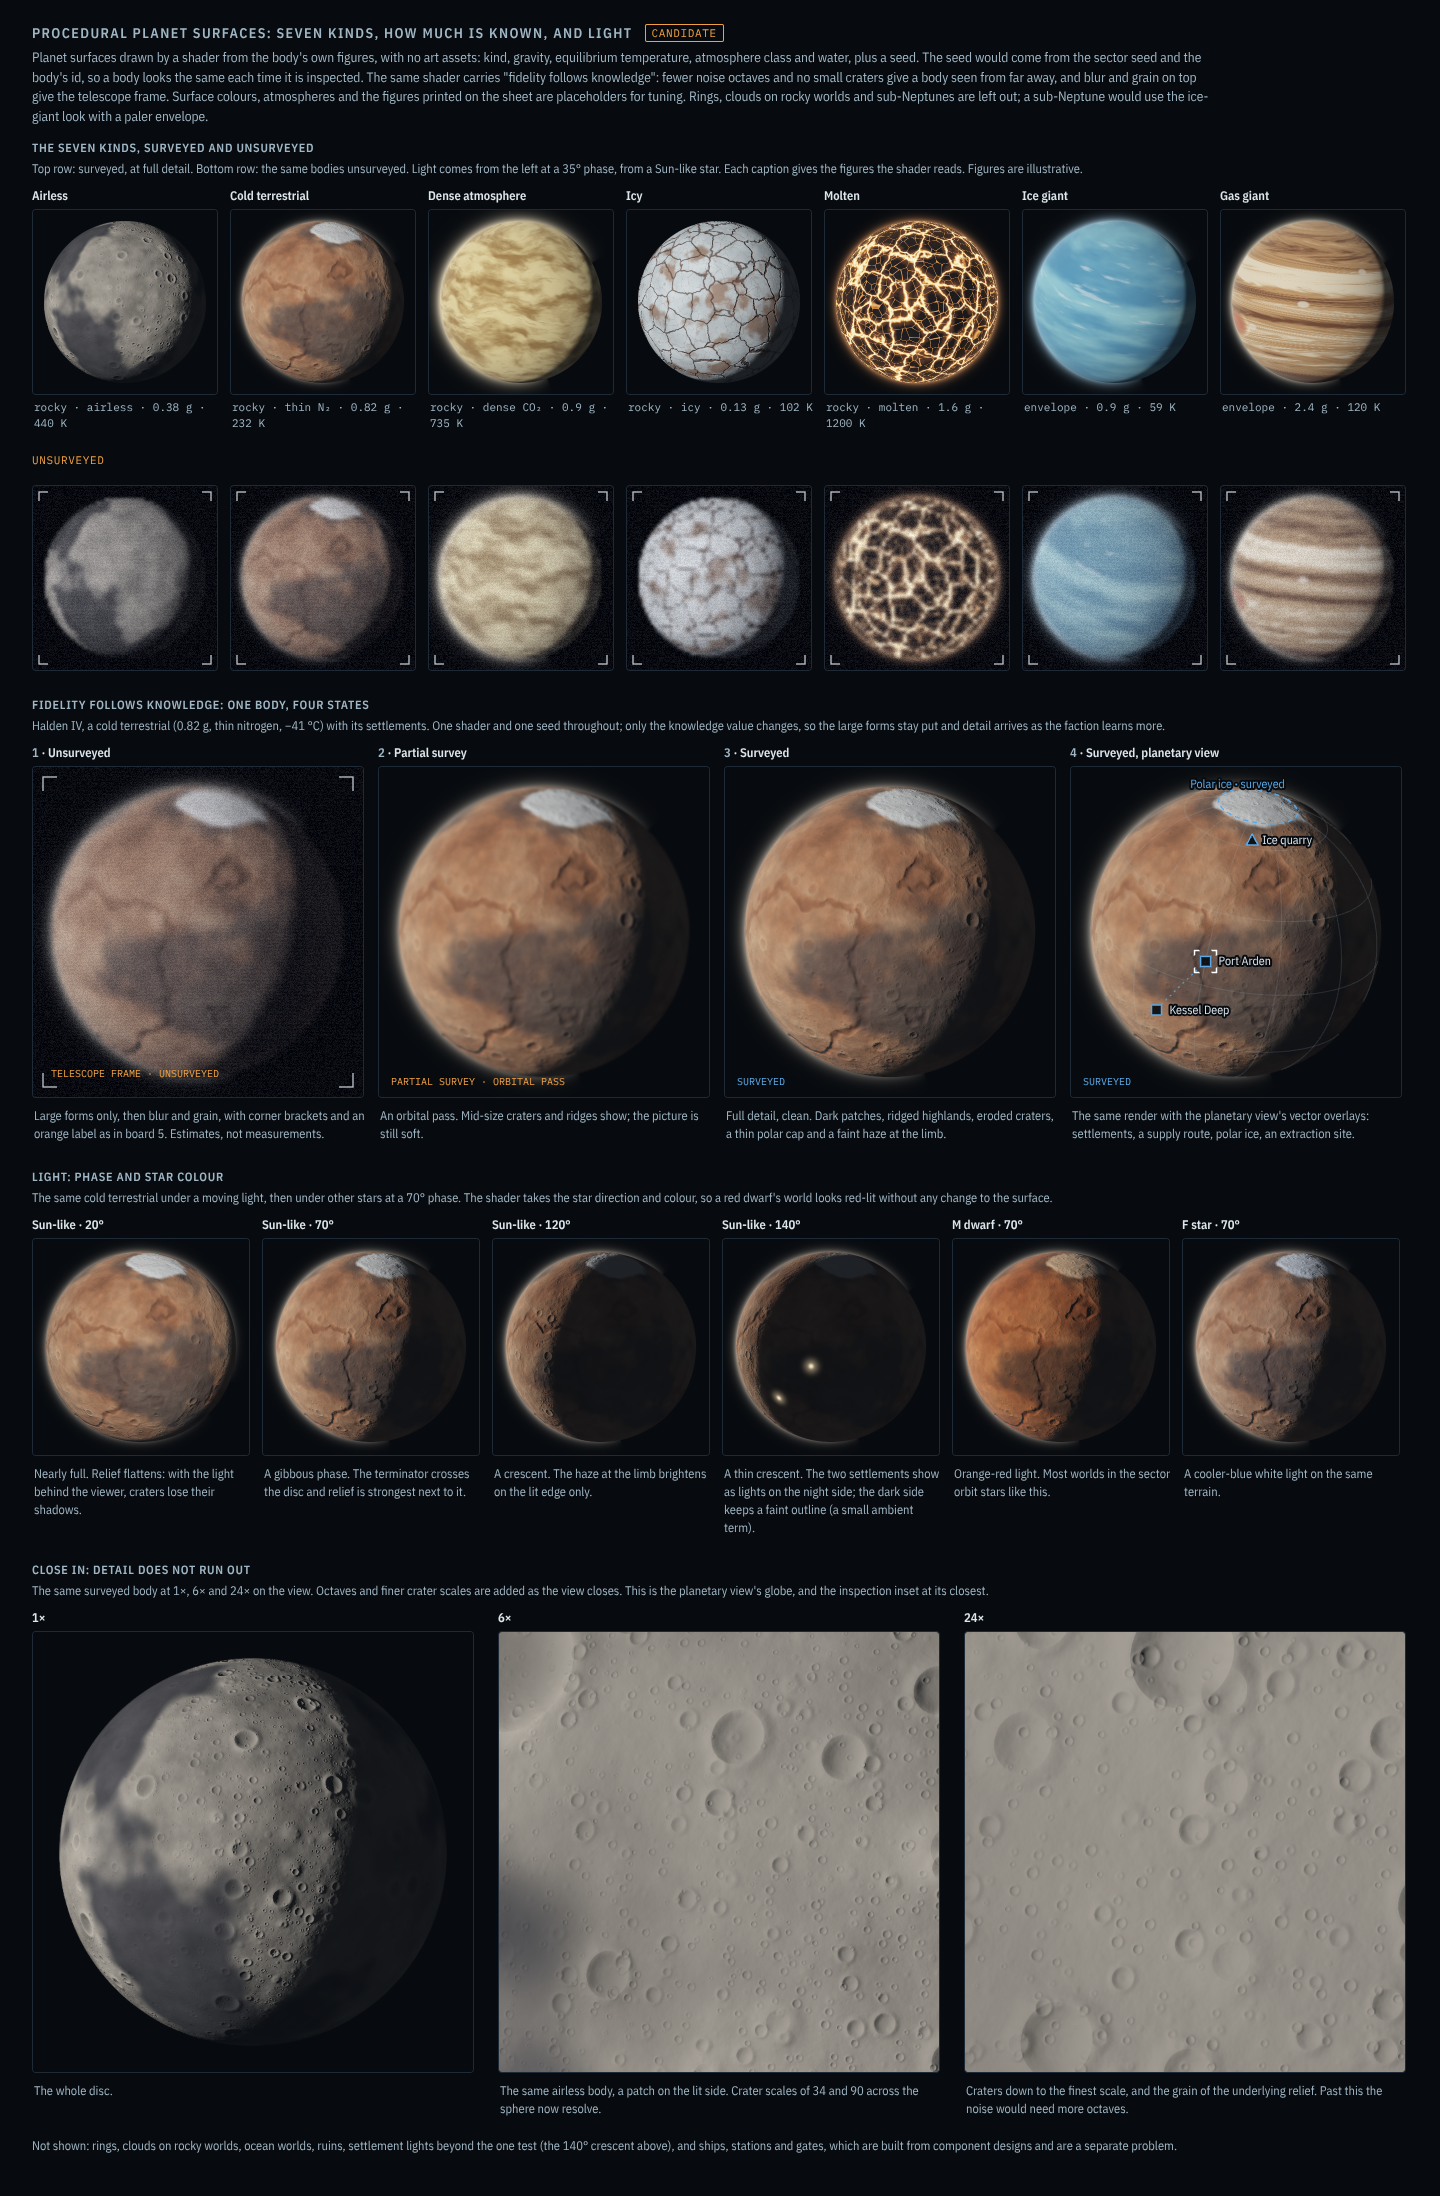
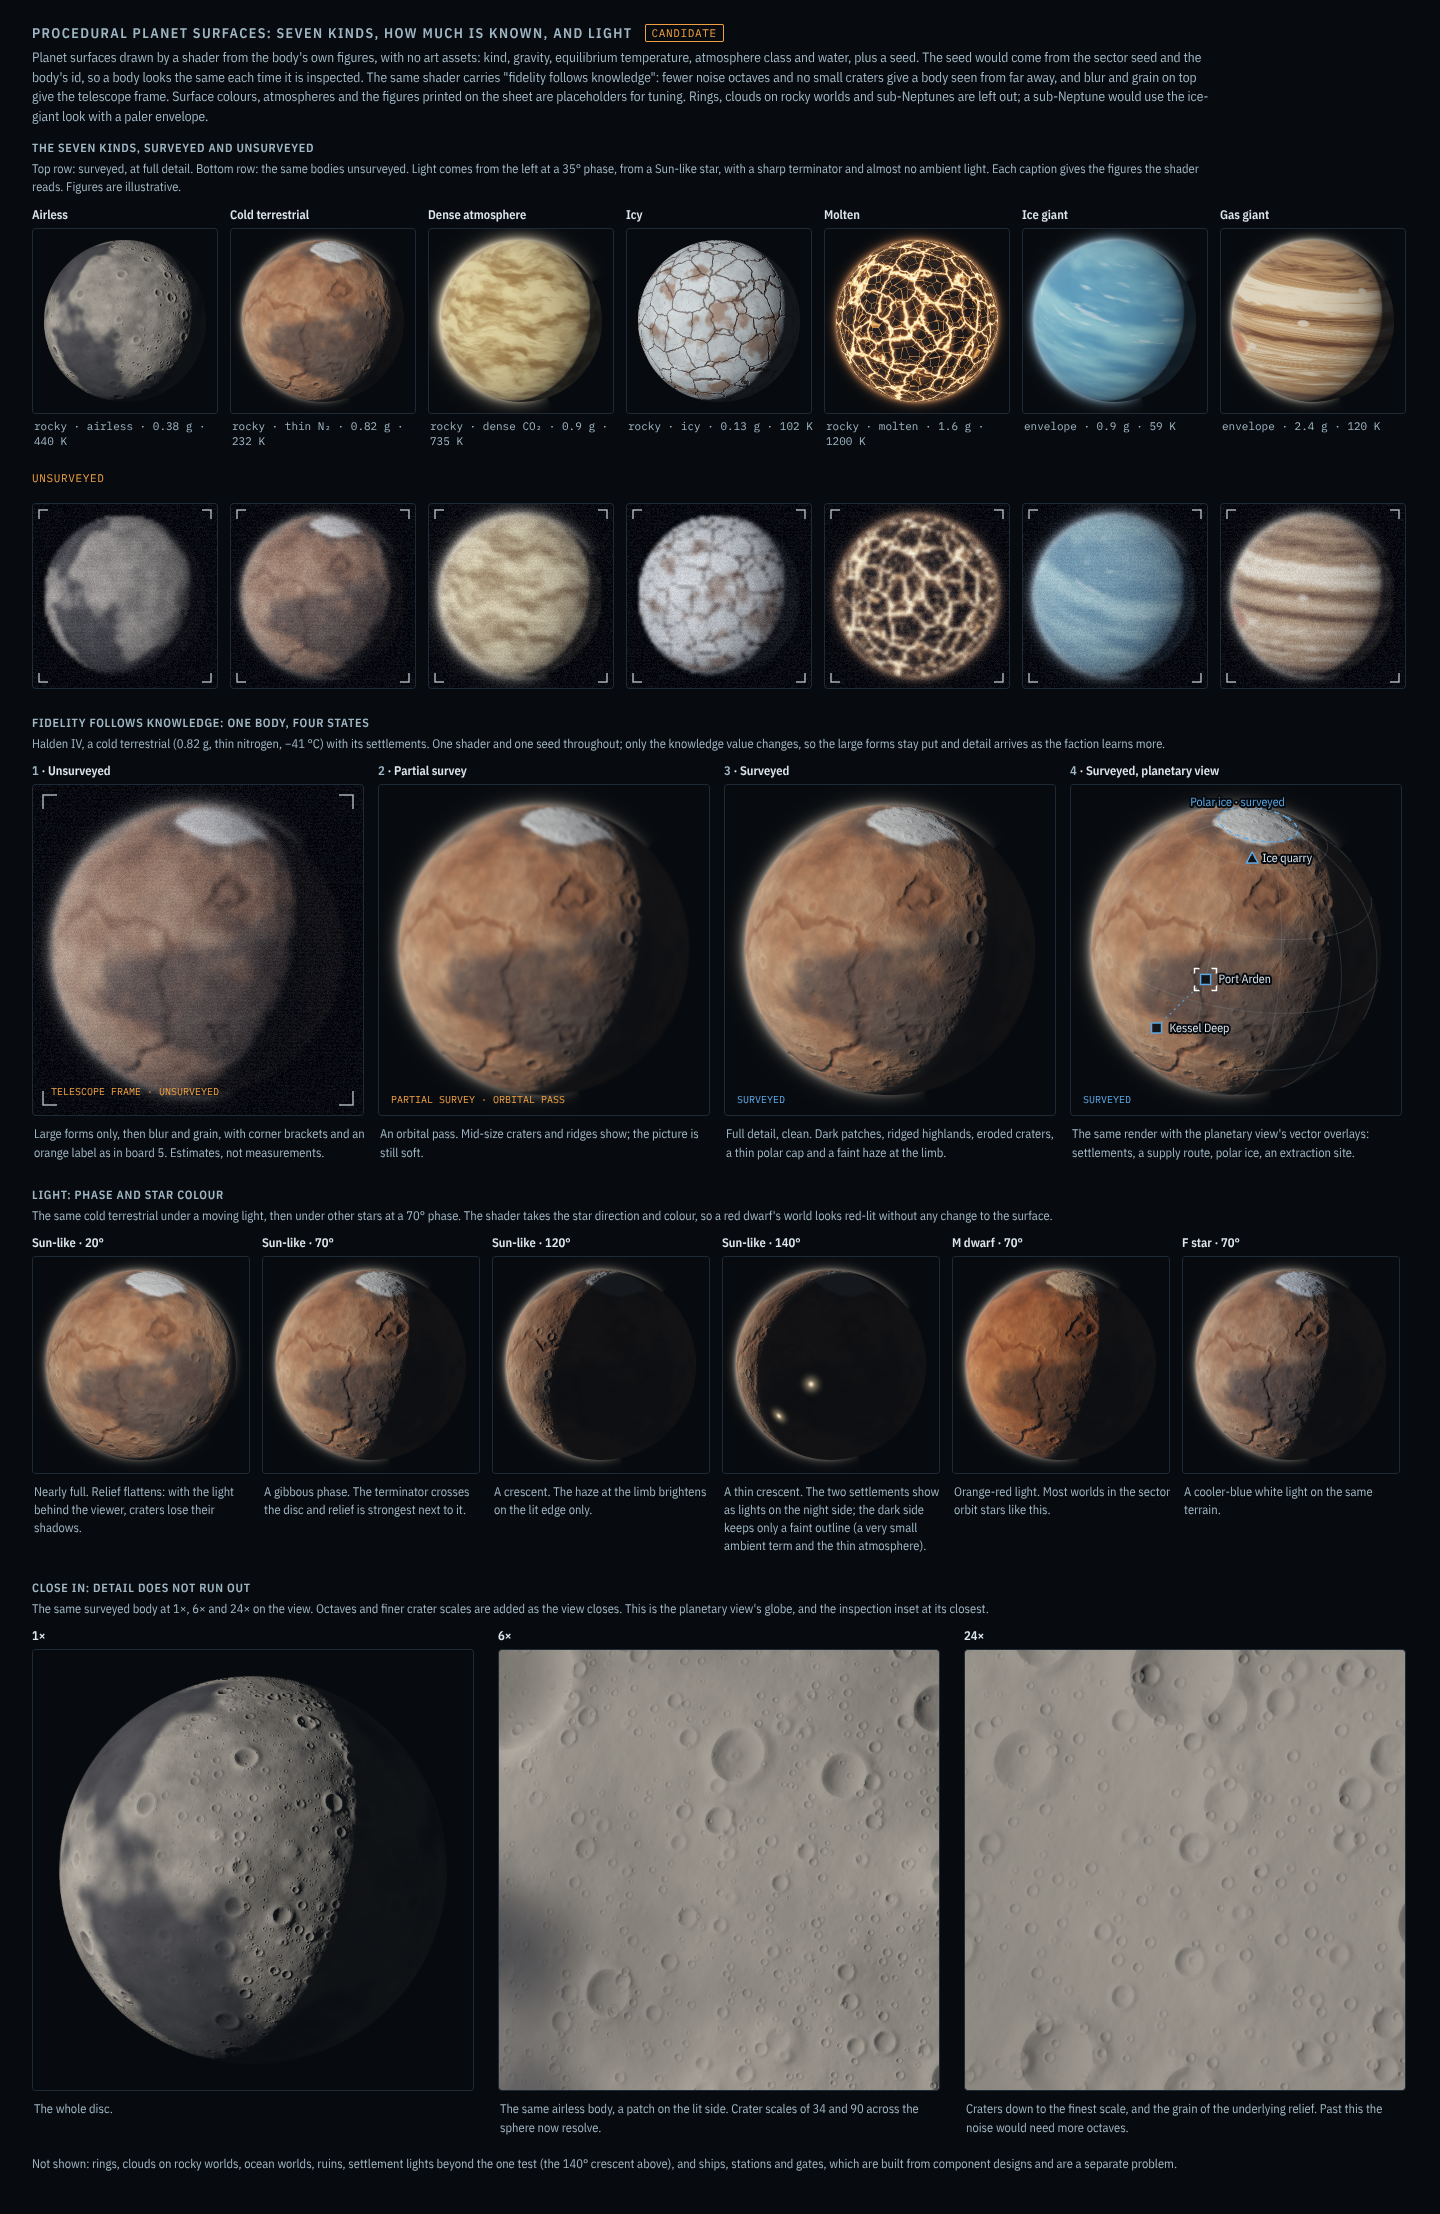
Mock-up 29: sharper terminator, less ambient light
Tighter terminator smoothstep and wrap, ambient terms cut by 60 to 75%,
night-side lights switch on closer to the terminator.

Claude-Session: https://claude.ai/code/session_01MNQ893hFsEYpokHcj3TtXP

diff --git a/docs/ideas/presentation/mockups/29-planets.html b/docs/ideas/presentation/mockups/29-planets.html
@@ -305,15 +305,15 @@ void main(){
     vec3 alb,emi;shade(p,pn,h0,alb,emi);
     vec3 nv=nb*uRot;
     float ndlG=dot(N,L);
-    float wrap=(uKind==2||uKind==5||uKind==6)?.25:(uKind==1?.08:0.);
-    float diff=clamp((dot(nv,L)+wrap)/(1.+wrap),0.,1.)*smoothstep(-.02,.12,ndlG+wrap*.5);
+    float wrap=(uKind==2||uKind==5||uKind==6)?.12:(uKind==1?.03:0.);
+    float diff=clamp((dot(nv,L)+wrap)/(1.+wrap),0.,1.)*smoothstep(-.005,.04,ndlG+wrap*.5);
     vec3 surf=alb*diff*uStar*uStarI+alb*uAmbient+emi;
     if(uAtm>0.){
       float rim=pow(1.-N.z,3.5);
       float lf=uAtmSelf>.5?1.:clamp(ndlG*1.2+.1,0.,1.);
       surf+=uAtmCol*rim*lf*uAtm*.55;
     }
-    float night=1.-smoothstep(-.06,.12,ndlG);
+    float night=1.-smoothstep(-.02,.06,ndlG);
     for(int i=0;i<6;i++){
       if(i>=uNCities)break;
       float d=dot(pn,uCities[i]);
@@ -335,13 +335,13 @@ function rng(seed){return function(){seed|=0;seed=seed+0x6D2B79F5|0;let t=Math.i
 
 /* ---- the bodies: the figures the generator gives each planet ---- */
 const BODIES={
-  airless:{kind:0,label:'Airless',fig:'rocky · airless · 0.38 g · 440 K',seed:3,temp:440,age:6.5,atm:0,atmThick:.03,atmCol:[.6,.6,.6],atmSelf:0,caps:0,amb:.004,tilt:8,lon:25,roll:-12},
-  thin:{kind:1,label:'Cold terrestrial',fig:'rocky · thin N₂ · 0.82 g · 232 K',seed:5,temp:232,age:4.2,atm:.38,atmThick:.035,atmCol:[.78,.66,.52],atmSelf:0,caps:.25,amb:.006,tilt:24,lon:-40,roll:-10},
-  dense:{kind:2,label:'Dense atmosphere',fig:'rocky · dense CO₂ · 0.9 g · 735 K',seed:11,temp:735,age:4.5,atm:1,atmThick:.06,atmCol:[.98,.82,.55],atmSelf:0,caps:0,amb:.02,tilt:10,lon:0,roll:-8},
-  icy:{kind:3,label:'Icy',fig:'rocky · icy · 0.13 g · 102 K',seed:17,temp:102,age:.8,atm:0,atmThick:.03,atmCol:[.6,.7,.8],atmSelf:0,caps:0,amb:.006,tilt:14,lon:60,roll:-16},
-  molten:{kind:4,label:'Molten',fig:'rocky · molten · 1.6 g · 1200 K',seed:23,temp:1200,age:.3,atm:.35,atmThick:.04,atmCol:[1,.38,.12],atmSelf:1,caps:0,amb:.002,tilt:12,lon:110,roll:-6},
-  icegiant:{kind:5,label:'Ice giant',fig:'envelope · 0.9 g · 59 K',seed:29,temp:59,age:4,atm:.9,atmThick:.05,atmCol:[.45,.75,.95],atmSelf:0,caps:0,amb:.02,tilt:18,lon:0,roll:-14},
-  gas:{kind:6,label:'Gas giant',fig:'envelope · 2.4 g · 120 K',seed:31,temp:120,age:4,atm:.8,atmThick:.04,atmCol:[.92,.82,.62],atmSelf:0,caps:0,amb:.02,tilt:8,lon:0,roll:-6}
+  airless:{kind:0,label:'Airless',fig:'rocky · airless · 0.38 g · 440 K',seed:3,temp:440,age:6.5,atm:0,atmThick:.03,atmCol:[.6,.6,.6],atmSelf:0,caps:0,amb:.0015,tilt:8,lon:25,roll:-12},
+  thin:{kind:1,label:'Cold terrestrial',fig:'rocky · thin N₂ · 0.82 g · 232 K',seed:5,temp:232,age:4.2,atm:.38,atmThick:.035,atmCol:[.78,.66,.52],atmSelf:0,caps:.25,amb:.002,tilt:24,lon:-40,roll:-10},
+  dense:{kind:2,label:'Dense atmosphere',fig:'rocky · dense CO₂ · 0.9 g · 735 K',seed:11,temp:735,age:4.5,atm:1,atmThick:.06,atmCol:[.98,.82,.55],atmSelf:0,caps:0,amb:.008,tilt:10,lon:0,roll:-8},
+  icy:{kind:3,label:'Icy',fig:'rocky · icy · 0.13 g · 102 K',seed:17,temp:102,age:.8,atm:0,atmThick:.03,atmCol:[.6,.7,.8],atmSelf:0,caps:0,amb:.002,tilt:14,lon:60,roll:-16},
+  molten:{kind:4,label:'Molten',fig:'rocky · molten · 1.6 g · 1200 K',seed:23,temp:1200,age:.3,atm:.35,atmThick:.04,atmCol:[1,.38,.12],atmSelf:1,caps:0,amb:.001,tilt:12,lon:110,roll:-6},
+  icegiant:{kind:5,label:'Ice giant',fig:'envelope · 0.9 g · 59 K',seed:29,temp:59,age:4,atm:.9,atmThick:.05,atmCol:[.45,.75,.95],atmSelf:0,caps:0,amb:.008,tilt:18,lon:0,roll:-14},
+  gas:{kind:6,label:'Gas giant',fig:'envelope · 2.4 g · 120 K',seed:31,temp:120,age:4,atm:.8,atmThick:.04,atmCol:[.92,.82,.62],atmSelf:0,caps:0,amb:.008,tilt:8,lon:0,roll:-6}
 };
 const STARS={sun:{c:[1,.96,.90],i:1.2,name:'Sun-like'},k:{c:[1,.80,.55],i:1.2,name:'K dwarf'},m:{c:[1,.58,.30],i:1.2,name:'M dwarf'},f:{c:[.88,.92,1],i:1.2,name:'F star'}};
 let SEED=7;
@@ -479,7 +479,7 @@ function build(){
   const sheet=document.getElementById('sheet');sheet.innerHTML='';
 
   /* A: the seven kinds */
-  let row=board(sheet,'The seven kinds, surveyed and unsurveyed','Top row: surveyed, at full detail. Bottom row: the same bodies unsurveyed. Light comes from the left at a 35° phase, from a Sun-like star. Each caption gives the figures the shader reads. Figures are illustrative.');
+  let row=board(sheet,'The seven kinds, surveyed and unsurveyed','Top row: surveyed, at full detail. Bottom row: the same bodies unsurveyed. Light comes from the left at a 35° phase, from a Sun-like star, with a sharp terminator and almost no ambient light. Each caption gives the figures the shader reads. Figures are illustrative.');
   row.style.gap='12px';
   const keys=['airless','thin','dense','icy','molten','icegiant','gas'];
   const SA=184;
@@ -504,7 +504,7 @@ function build(){
   [[20,'sun','Sun-like · 20°','Nearly full. Relief flattens: with the light behind the viewer, craters lose their shadows.'],
    [70,'sun','Sun-like · 70°','A gibbous phase. The terminator crosses the disc and relief is strongest next to it.'],
    [120,'sun','Sun-like · 120°','A crescent. The haze at the limb brightens on the lit edge only.'],
-   [140,'sun','Sun-like · 140°','A thin crescent. The two settlements show as lights on the night side; the dark side keeps a faint outline (a small ambient term).'],
+   [140,'sun','Sun-like · 140°','A thin crescent. The two settlements show as lights on the night side; the dark side keeps only a faint outline (a very small ambient term and the thin atmosphere).'],
    [70,'m','M dwarf · 70°','Orange-red light. Most worlds in the sector orbit stars like this.'],
    [70,'f','F star · 70°','A cooler-blue white light on the same terrain.']
   ].forEach(([ph,st,t,cap])=>bodyPanel(cell(row,SC,t,cap),SC,'thin',{k:1,phase:ph,star:st,ss:2,cities:ph===140?cities:[]}));
